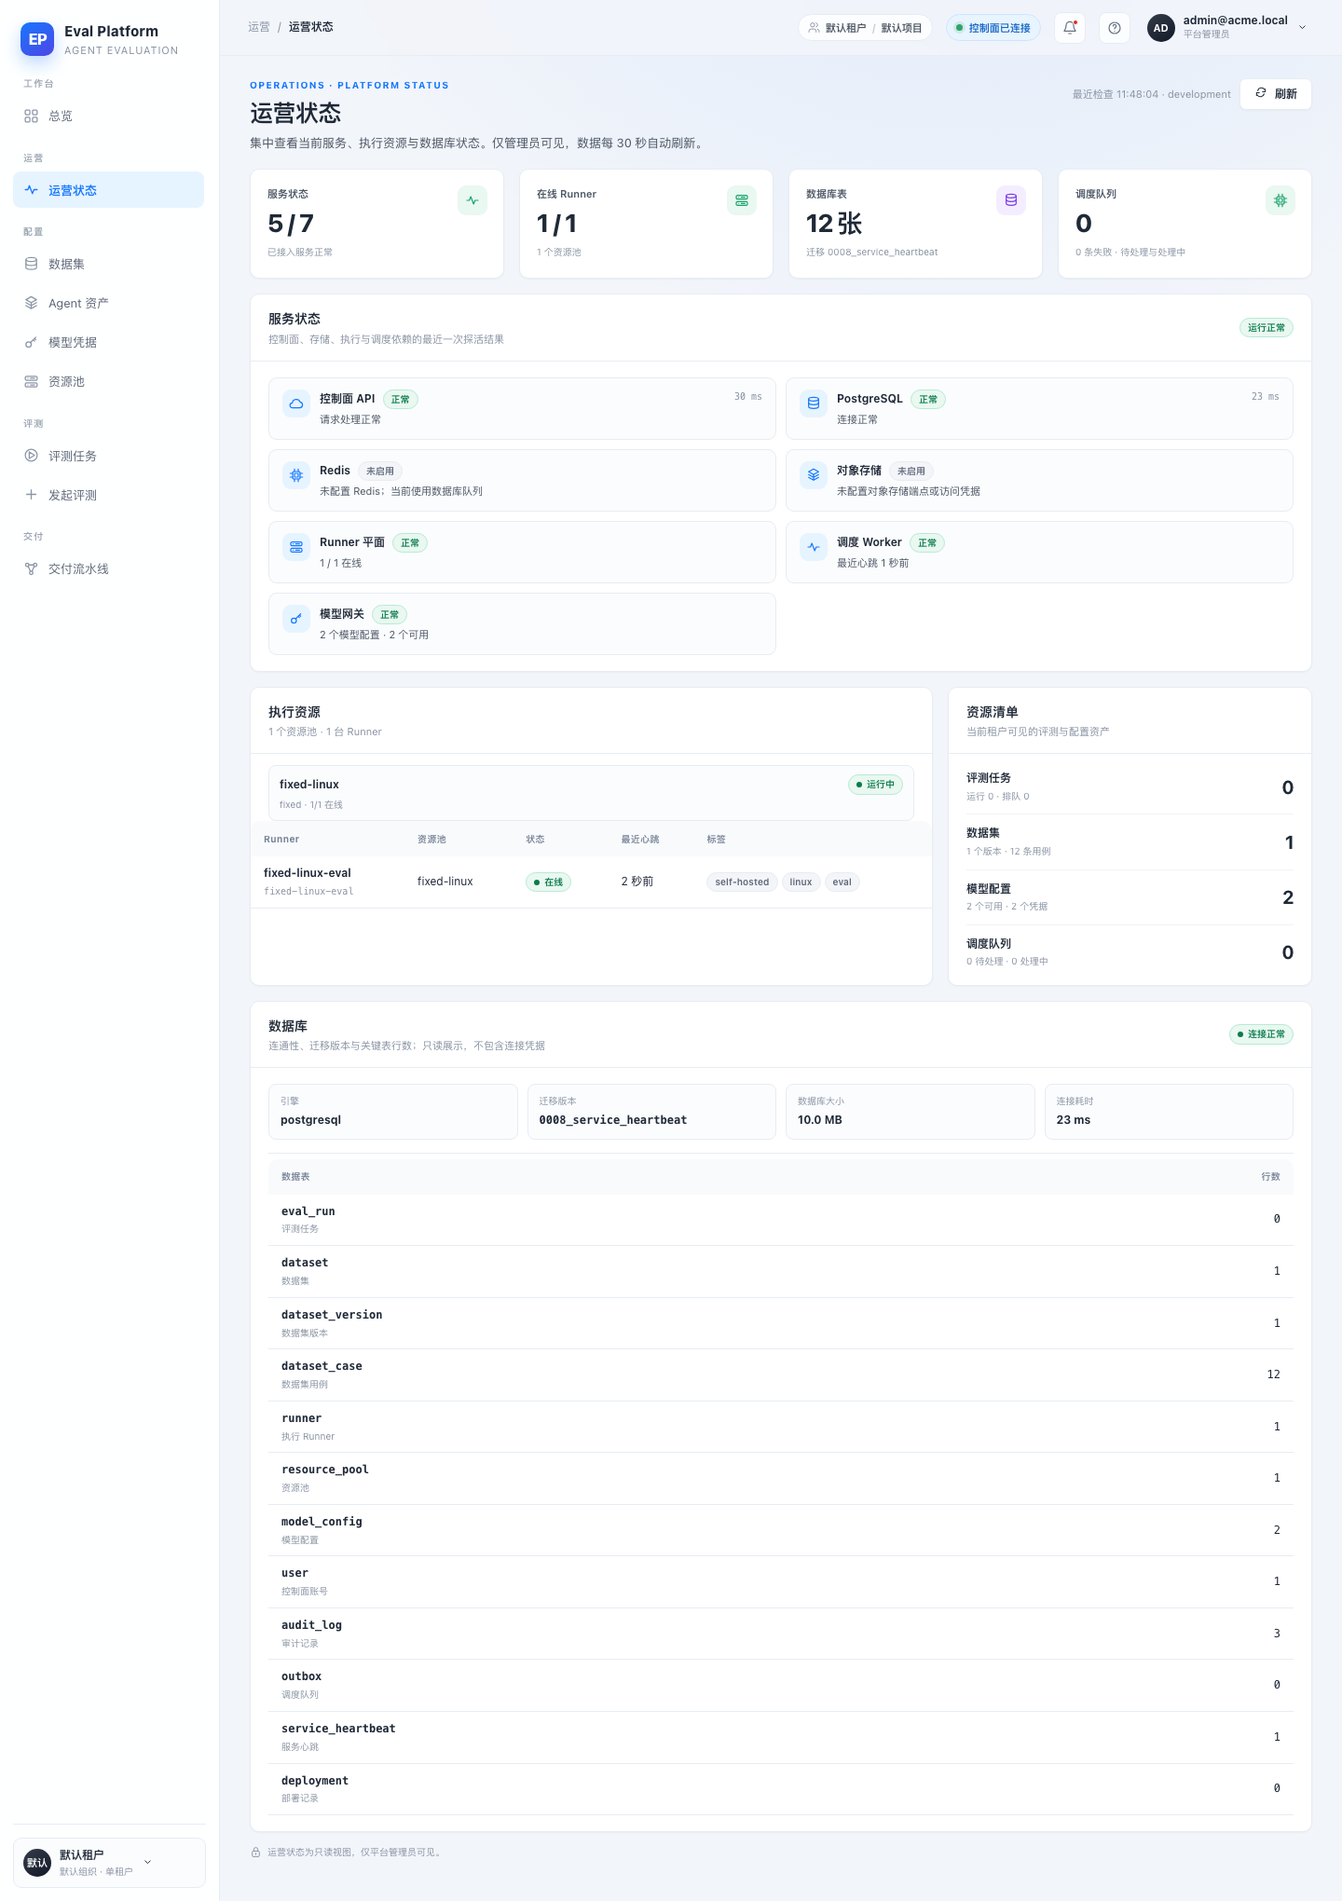
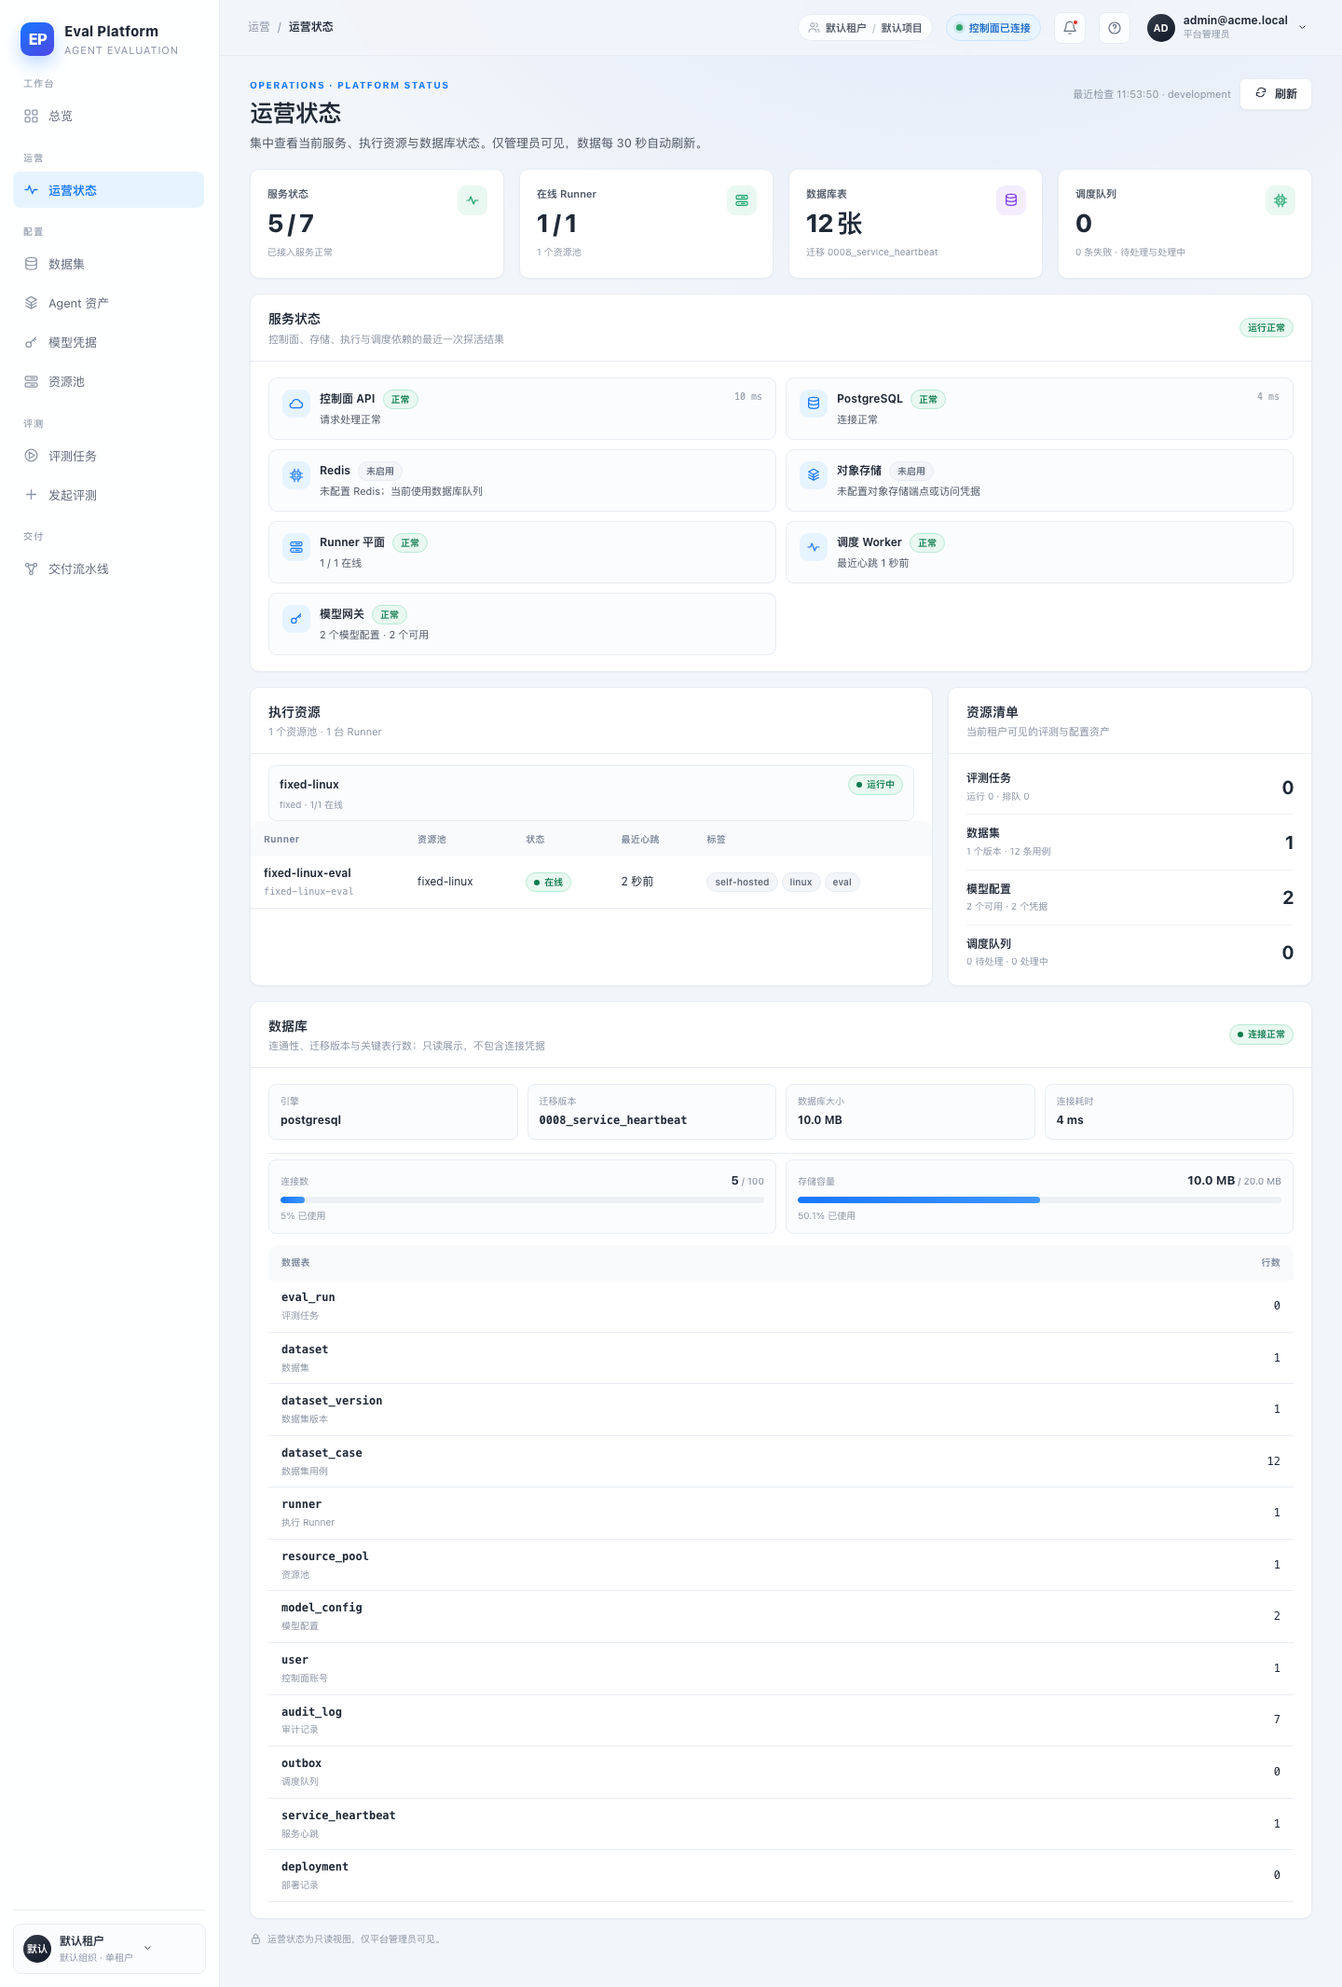
feat(operations): 数据库连接与存储容量水位 (#61)
Add database capacity to the administrator operations status:

- read PostgreSQL max_connections and the current pg_stat_activity count,
  and show connection usage with a progress watermark
- add DATABASE_STORAGE_LIMIT_BYTES (bytes) to settings and the production
  Compose API environment; show size vs. the configured capacity and mark
  unconfigured capacity explicitly instead of inventing a cloud quota
- document the new fields, extend pytest coverage for both engine dialects
  and the configured limit, and refresh the PostgreSQL-backed screenshots

diff --git a/web/src/pages/OperationsPage.tsx b/web/src/pages/OperationsPage.tsx
@@ -317,6 +317,7 @@ export function OperationsPage() {
   const queueDepth =
     data.resources.outbox.pending + data.resources.outbox.processing;
   const tables = data.database.tables;
+  const capacity = data.database.capacity;
   const databaseHealthy = data.database.status === "ok";
   const overallHealthy = data.status === "ok";
   const overallLabel = overallHealthy ? "运行正常" : "需要关注";
@@ -556,6 +557,77 @@ export function OperationsPage() {
             <div>
               <span>连接耗时</span>
               <strong>{data.database.latency_ms === null ? "—" : `${data.database.latency_ms} ms`}</strong>
+            </div>
+          </div>
+          <div className="ops-capacity-grid">
+            <div className="ops-capacity-card">
+              <div className="ops-capacity-head">
+                <span>连接数</span>
+                <strong>
+                  {formatNumber(capacity.connections)}
+                  <span className="muted"> / {formatNumber(capacity.max_connections)}</span>
+                </strong>
+              </div>
+              {capacity.connection_usage_percent === null ? (
+                <span className="tag tag-neutral">未提供上限</span>
+              ) : (
+                <div
+                  className="progress"
+                  role="progressbar"
+                  aria-label="数据库连接数水位"
+                  aria-valuemin={0}
+                  aria-valuemax={100}
+                  aria-valuenow={Math.min(100, Math.max(0, capacity.connection_usage_percent))}
+                  aria-valuetext={`${capacity.connection_usage_percent}%`}
+                >
+                  <span
+                    style={{
+                      width: `${Math.min(100, Math.max(0, capacity.connection_usage_percent))}%`,
+                    }}
+                  />
+                </div>
+              )}
+              <div className="ops-capacity-meta">
+                {capacity.connection_usage_percent === null
+                  ? "当前引擎不提供 max_connections"
+                  : `${capacity.connection_usage_percent}% 已使用`}
+              </div>
+            </div>
+            <div className="ops-capacity-card">
+              <div className="ops-capacity-head">
+                <span>存储容量</span>
+                <strong>
+                  {formatBytes(data.database.size_bytes)}
+                  <span className="muted">
+                    {" "}
+                    / {formatBytes(capacity.storage_limit_bytes)}
+                  </span>
+                </strong>
+              </div>
+              {capacity.storage_usage_percent === null ? (
+                <span className="tag tag-neutral">未配置上限</span>
+              ) : (
+                <div
+                  className="progress"
+                  role="progressbar"
+                  aria-label="数据库存储容量水位"
+                  aria-valuemin={0}
+                  aria-valuemax={100}
+                  aria-valuenow={Math.min(100, Math.max(0, capacity.storage_usage_percent))}
+                  aria-valuetext={`${capacity.storage_usage_percent}%`}
+                >
+                  <span
+                    style={{
+                      width: `${Math.min(100, Math.max(0, capacity.storage_usage_percent))}%`,
+                    }}
+                  />
+                </div>
+              )}
+              <div className="ops-capacity-meta">
+                {capacity.storage_usage_percent === null
+                  ? "设置 DATABASE_STORAGE_LIMIT_BYTES 后显示水位"
+                  : `${capacity.storage_usage_percent}% 已使用`}
+              </div>
             </div>
           </div>
           <Table<DatabaseTableStatus>

diff --git a/web/src/api/operations.ts b/web/src/api/operations.ts
@@ -69,11 +69,20 @@ export interface DatabaseTableStatus {
   rows: number | null;
 }
 
+export interface DatabaseCapacity {
+  max_connections: number | null;
+  connections: number | null;
+  connection_usage_percent: number | null;
+  storage_limit_bytes: number | null;
+  storage_usage_percent: number | null;
+}
+
 export interface DatabaseStatus {
   status: string;
   dialect: string | null;
   revision: string | null;
   size_bytes: number | null;
+  capacity: DatabaseCapacity;
   latency_ms: number | null;
   tables: DatabaseTableStatus[];
 }
@@ -185,11 +194,19 @@ function parseResources(value: unknown): ResourceStatus {
 
 function parseDatabase(value: unknown): DatabaseStatus {
   const payload = record(value, "database");
+  const capacity: Record<string, unknown> = isRecord(payload.capacity) ? payload.capacity : {};
   return {
     status: text(payload.status) || "unknown",
     dialect: typeof payload.dialect === "string" ? payload.dialect : null,
     revision: typeof payload.revision === "string" ? payload.revision : null,
     size_bytes: nullableNumber(payload.size_bytes),
+    capacity: {
+      max_connections: nullableNumber(capacity.max_connections),
+      connections: nullableNumber(capacity.connections),
+      connection_usage_percent: nullableNumber(capacity.connection_usage_percent),
+      storage_limit_bytes: nullableNumber(capacity.storage_limit_bytes),
+      storage_usage_percent: nullableNumber(capacity.storage_usage_percent),
+    },
     latency_ms: nullableNumber(payload.latency_ms),
     tables: records(payload.tables, "database.tables").map((item) => ({
       name: text(item.name),

diff --git a/web/src/styles/operations.css b/web/src/styles/operations.css
@@ -214,3 +214,54 @@
     grid-template-columns: 1fr;
   }
 }
+
+.ops-capacity-grid {
+  display: grid;
+  grid-template-columns: repeat(2, minmax(0, 1fr));
+  gap: 10px;
+  margin-bottom: 12px;
+}
+
+.ops-capacity-card {
+  padding: 11px 12px;
+  border: 1px solid var(--line);
+  border-radius: 8px;
+  background: #fbfcfe;
+}
+
+.ops-capacity-card .progress {
+  margin: 2px 0 0;
+}
+
+.ops-capacity-head {
+  display: flex;
+  align-items: baseline;
+  justify-content: space-between;
+  gap: 12px;
+  margin-bottom: 8px;
+  color: var(--muted);
+  font-size: 10px;
+}
+
+.ops-capacity-head strong {
+  color: var(--ink);
+  font-size: 13px;
+}
+
+.ops-capacity-head .muted {
+  color: var(--muted);
+  font-size: 10px;
+  font-weight: 500;
+}
+
+.ops-capacity-meta {
+  margin-top: 6px;
+  color: var(--muted);
+  font-size: 10px;
+}
+
+@media (max-width: 1180px) {
+  .ops-capacity-grid {
+    grid-template-columns: 1fr;
+  }
+}

diff --git a/backend/app/api/operations.py b/backend/app/api/operations.py
@@ -145,7 +145,47 @@ def _table_rows(session: Session) -> list[dict[str, object]]:
     return rows
 
 
-def _database_status(session: Session) -> tuple[dict[str, object], bool]:
+def _percent(used: int | None, limit: int | None) -> float | None:
+    if used is None or limit is None or limit <= 0:
+        return None
+    return round(used / limit * 100, 1)
+
+
+def _database_capacity(
+    session: Session,
+    settings: Settings,
+    size_bytes: int | None,
+) -> dict[str, object]:
+    max_connections: int | None = None
+    connections: int | None = None
+    try:
+        if session.get_bind().dialect.name == "postgresql":
+            raw = session.scalar(text("SHOW max_connections"))
+            max_connections = int(raw) if raw is not None else None
+            used = session.scalar(
+                text(
+                    "SELECT count(*) FROM pg_stat_activity "
+                    "WHERE datname = current_database()"
+                )
+            )
+            connections = int(used) if used is not None else None
+    except Exception:  # pragma: no cover - engine-specific capacity probe
+        max_connections = None
+        connections = None
+    storage_limit = settings.database_storage_limit_bytes or None
+    return {
+        "max_connections": max_connections,
+        "connections": connections,
+        "connection_usage_percent": _percent(connections, max_connections),
+        "storage_limit_bytes": storage_limit,
+        "storage_usage_percent": _percent(size_bytes, storage_limit),
+    }
+
+
+def _database_status(
+    session: Session,
+    settings: Settings,
+) -> tuple[dict[str, object], bool]:
     started = perf_counter()
     try:
         session.execute(text("SELECT 1"))
@@ -156,6 +196,13 @@ def _database_status(session: Session) -> tuple[dict[str, object], bool]:
                 "dialect": None,
                 "revision": None,
                 "size_bytes": None,
+                "capacity": {
+                    "max_connections": None,
+                    "connections": None,
+                    "connection_usage_percent": None,
+                    "storage_limit_bytes": settings.database_storage_limit_bytes or None,
+                    "storage_usage_percent": None,
+                },
                 "latency_ms": _elapsed_ms(started),
                 "tables": [],
             },
@@ -166,12 +213,14 @@ def _database_status(session: Session) -> tuple[dict[str, object], bool]:
         dialect = session.get_bind().dialect.name
     except Exception:  # pragma: no cover - defensive
         dialect = None
+    size_bytes = _database_size(session)
     return (
         {
             "status": "ok",
             "dialect": dialect,
             "revision": _database_revision(session),
-            "size_bytes": _database_size(session),
+            "size_bytes": size_bytes,
+            "capacity": _database_capacity(session, settings, size_bytes),
             "latency_ms": _elapsed_ms(started),
             "tables": _table_rows(session),
         },
@@ -432,7 +481,7 @@ def operations_status(
     started = perf_counter()
     now = datetime.now(UTC)
     tenant_id = context.tenant.id
-    database, database_ok = _database_status(session)
+    database, database_ok = _database_status(session, settings)
     resources = _resource_snapshot(session, tenant_id) if database_ok else {
         "pools": [],
         "runners": [],

diff --git a/tests/backend/test_operations.py b/tests/backend/test_operations.py
@@ -102,6 +102,24 @@ def test_operations_status_reports_services_resources_and_database(
     assert database["dialect"] in {"sqlite", "postgresql"}
     assert database["revision"] == "0008_service_heartbeat"
     assert database["size_bytes"] > 0
+    capacity = database["capacity"]
+    assert set(capacity) == {
+        "max_connections",
+        "connections",
+        "connection_usage_percent",
+        "storage_limit_bytes",
+        "storage_usage_percent",
+    }
+    assert capacity["storage_limit_bytes"] is None
+    assert capacity["storage_usage_percent"] is None
+    if database["dialect"] == "postgresql":
+        assert capacity["max_connections"] > 0
+        assert capacity["connections"] >= 1
+        assert capacity["connection_usage_percent"] > 0
+    else:
+        assert capacity["max_connections"] is None
+        assert capacity["connections"] is None
+        assert capacity["connection_usage_percent"] is None
     tables = {table["name"]: table for table in database["tables"]}
     assert {"eval_run", "dataset", "runner", "outbox", "service_heartbeat", "deployment"} <= set(tables)
     assert tables["user"]["rows"] >= 1
@@ -246,3 +264,17 @@ def test_operations_object_storage_probe_states(
     ]
     assert failing["status"] == "error"
     assert "HTTP 403" in failing["summary"]
+
+
+def test_operations_reports_configured_database_storage_limit(
+    client: TestClient, configure_settings
+) -> None:
+    configure_settings(DATABASE_STORAGE_LIMIT_BYTES="1048576")
+
+    response = client.get("/api/v1/operations/status")
+    assert response.status_code == 200
+    database = response.json()["database"]
+    capacity = database["capacity"]
+    assert capacity["storage_limit_bytes"] == 1048576
+    assert capacity["storage_usage_percent"] is not None
+    assert capacity["storage_usage_percent"] > 0

diff --git a/backend/app/config.py b/backend/app/config.py
@@ -48,6 +48,11 @@ class Settings(BaseSettings):
     worker_poll_seconds: float = 5.0
     worker_heartbeat_path: str = "/tmp/eval-worker-heartbeat"
 
+    # M3-06 operations status: provisioned database storage capacity, used to
+    # show a usage watermark on the admin page. 0 means "not configured"; the
+    # page then reports the current size without a percentage.
+    database_storage_limit_bytes: int = 0
+
     # M2-04 fixed runner plane. The heartbeat token matches the env key the
     # deployed runner agent reads (/etc/eval-platform/runner.env); when unset
     # the runner plane accepts unauthenticated requests (development only).

diff --git a/.agents/flow/issues/m3-06-admin-operations-status.en.md b/.agents/flow/issues/m3-06-admin-operations-status.en.md
@@ -10,6 +10,7 @@ status: in-progress
 scope:
   - .agents/flow/issues/m3-06-admin-operations-status.*
   - backend/**
+  - deploy/**
   - web/**
   - tests/**
   - docs/**
@@ -29,13 +30,13 @@ M3 now carries real datasets, the model gateway, the execution runtime, and acco
 - Add an administrator-only "operations status" sub-page: a read-only member does not see it in navigation, direct access shows an access-denied state, and the backend endpoint returns 403.
 - Service status covers the control-plane API, PostgreSQL, Redis, object storage, the Runner plane, the dispatch worker, and the model gateway: configured checks report liveness, unconfigured items explicitly say "disabled", and failures show a readable reason.
 - Resource status shows resource pools with Runner online counts and last heartbeat, evaluation counts, dataset and case counts, model configuration count, and dispatch queue backlog.
-- Database status shows connectivity, migration revision, database size, and key table row counts without returning connection strings, keys, or any plaintext credentials.
+- Database status shows connectivity, migration revision, database size, key table row counts, connection usage against the engine limit, and storage usage against the configured capacity, without returning connection strings, keys, or any plaintext credentials.
 - The dispatch worker writes a database heartbeat on every poll so operations status can judge its liveness; the page supports manual refresh and periodic auto-refresh.
 
 ## Acceptance
 
 - An administrator opening `/operations` sees services, resources, and database status; a read-only member sees an access-denied state and `GET /api/v1/operations/status` returns 403, while an anonymous request returns 401.
 - Service items cover the API, database, Redis, object storage, Runner, worker, and model gateway; disabled, failed, and healthy states are distinguishable on the page with a reason.
-- The resource area shows Runner and resource pools, evaluations, datasets, model configurations, and dispatch queue counts; the database area shows migration revision, size, and key table row counts.
-- pytest covers administrator success, read-only member 403, anonymous 401, service fields, fresh/stale worker heartbeat, and database table rows; frontend typecheck and build pass.
+- The resource area shows Runner and resource pools, evaluations, datasets, model configurations, and dispatch queue counts; the database area shows migration revision, size, connection usage, and storage usage.
+- pytest covers administrator success, read-only member 403, anonymous 401, service fields, fresh/stale worker heartbeat, database table rows, and capacity watermarks; frontend typecheck and build pass.
 - The PR includes before/after screenshots at the same viewport and theme, where before is the real application state without the new page and after is the new operations status page.

diff --git a/docs/architecture.en.md b/docs/architecture.en.md
@@ -40,7 +40,7 @@ Login uses an account and password; passwords are stored as salted scrypt hashes
 
 ## Operations status
 
-An administrator can open `/operations` to see the latest liveness results for the control-plane API, PostgreSQL, Redis, object storage, the Runner plane, the dispatch worker, and the model gateway, along with resource pools and Runners, datasets, model configurations, the dispatch queue, and the database migration revision, size, and key table row counts. A read-only member does not see it in navigation and the API returns 403; the page refreshes every 30 seconds and can also be refreshed manually. The worker writes a heartbeat to `service_heartbeat` on every poll.
+An administrator can open `/operations` to see the latest liveness results for the control-plane API, PostgreSQL, Redis, object storage, the Runner plane, the dispatch worker, and the model gateway, along with resource pools and Runners, datasets, model configurations, the dispatch queue, and the database migration revision, size, key table row counts, connection usage, and storage usage. A read-only member does not see it in navigation and the API returns 403; the page refreshes every 30 seconds and can also be refreshed manually. The worker writes a heartbeat to `service_heartbeat` on every poll.
 
 ## Runner contract
 

diff --git a/docs/architecture.md b/docs/architecture.md
@@ -40,7 +40,7 @@ index -> budgets -> wrap -> pairing -> terminology
 
 ## 运营状态
 
-管理员可在 `/operations` 查看控制面 API、PostgreSQL、Redis、对象存储、Runner 平面、调度 Worker 与模型网关的最近探活结果，以及资源池与 Runner、数据集、模型配置、调度队列和数据库迁移版本、大小、关键表行数。只读成员在导航中不可见且接口返回 403；页面每 30 秒自动刷新，也可手动刷新。Worker 每轮轮询向 `service_heartbeat` 写入心跳。
+管理员可在 `/operations` 查看控制面 API、PostgreSQL、Redis、对象存储、Runner 平面、调度 Worker 与模型网关的最近探活结果，以及资源池与 Runner、数据集、模型配置、调度队列和数据库迁移版本、大小、关键表行数、连接数与存储容量水位。只读成员在导航中不可见且接口返回 403；页面每 30 秒自动刷新，也可手动刷新。Worker 每轮轮询向 `service_heartbeat` 写入心跳。
 
 ## Runner 契约
 
